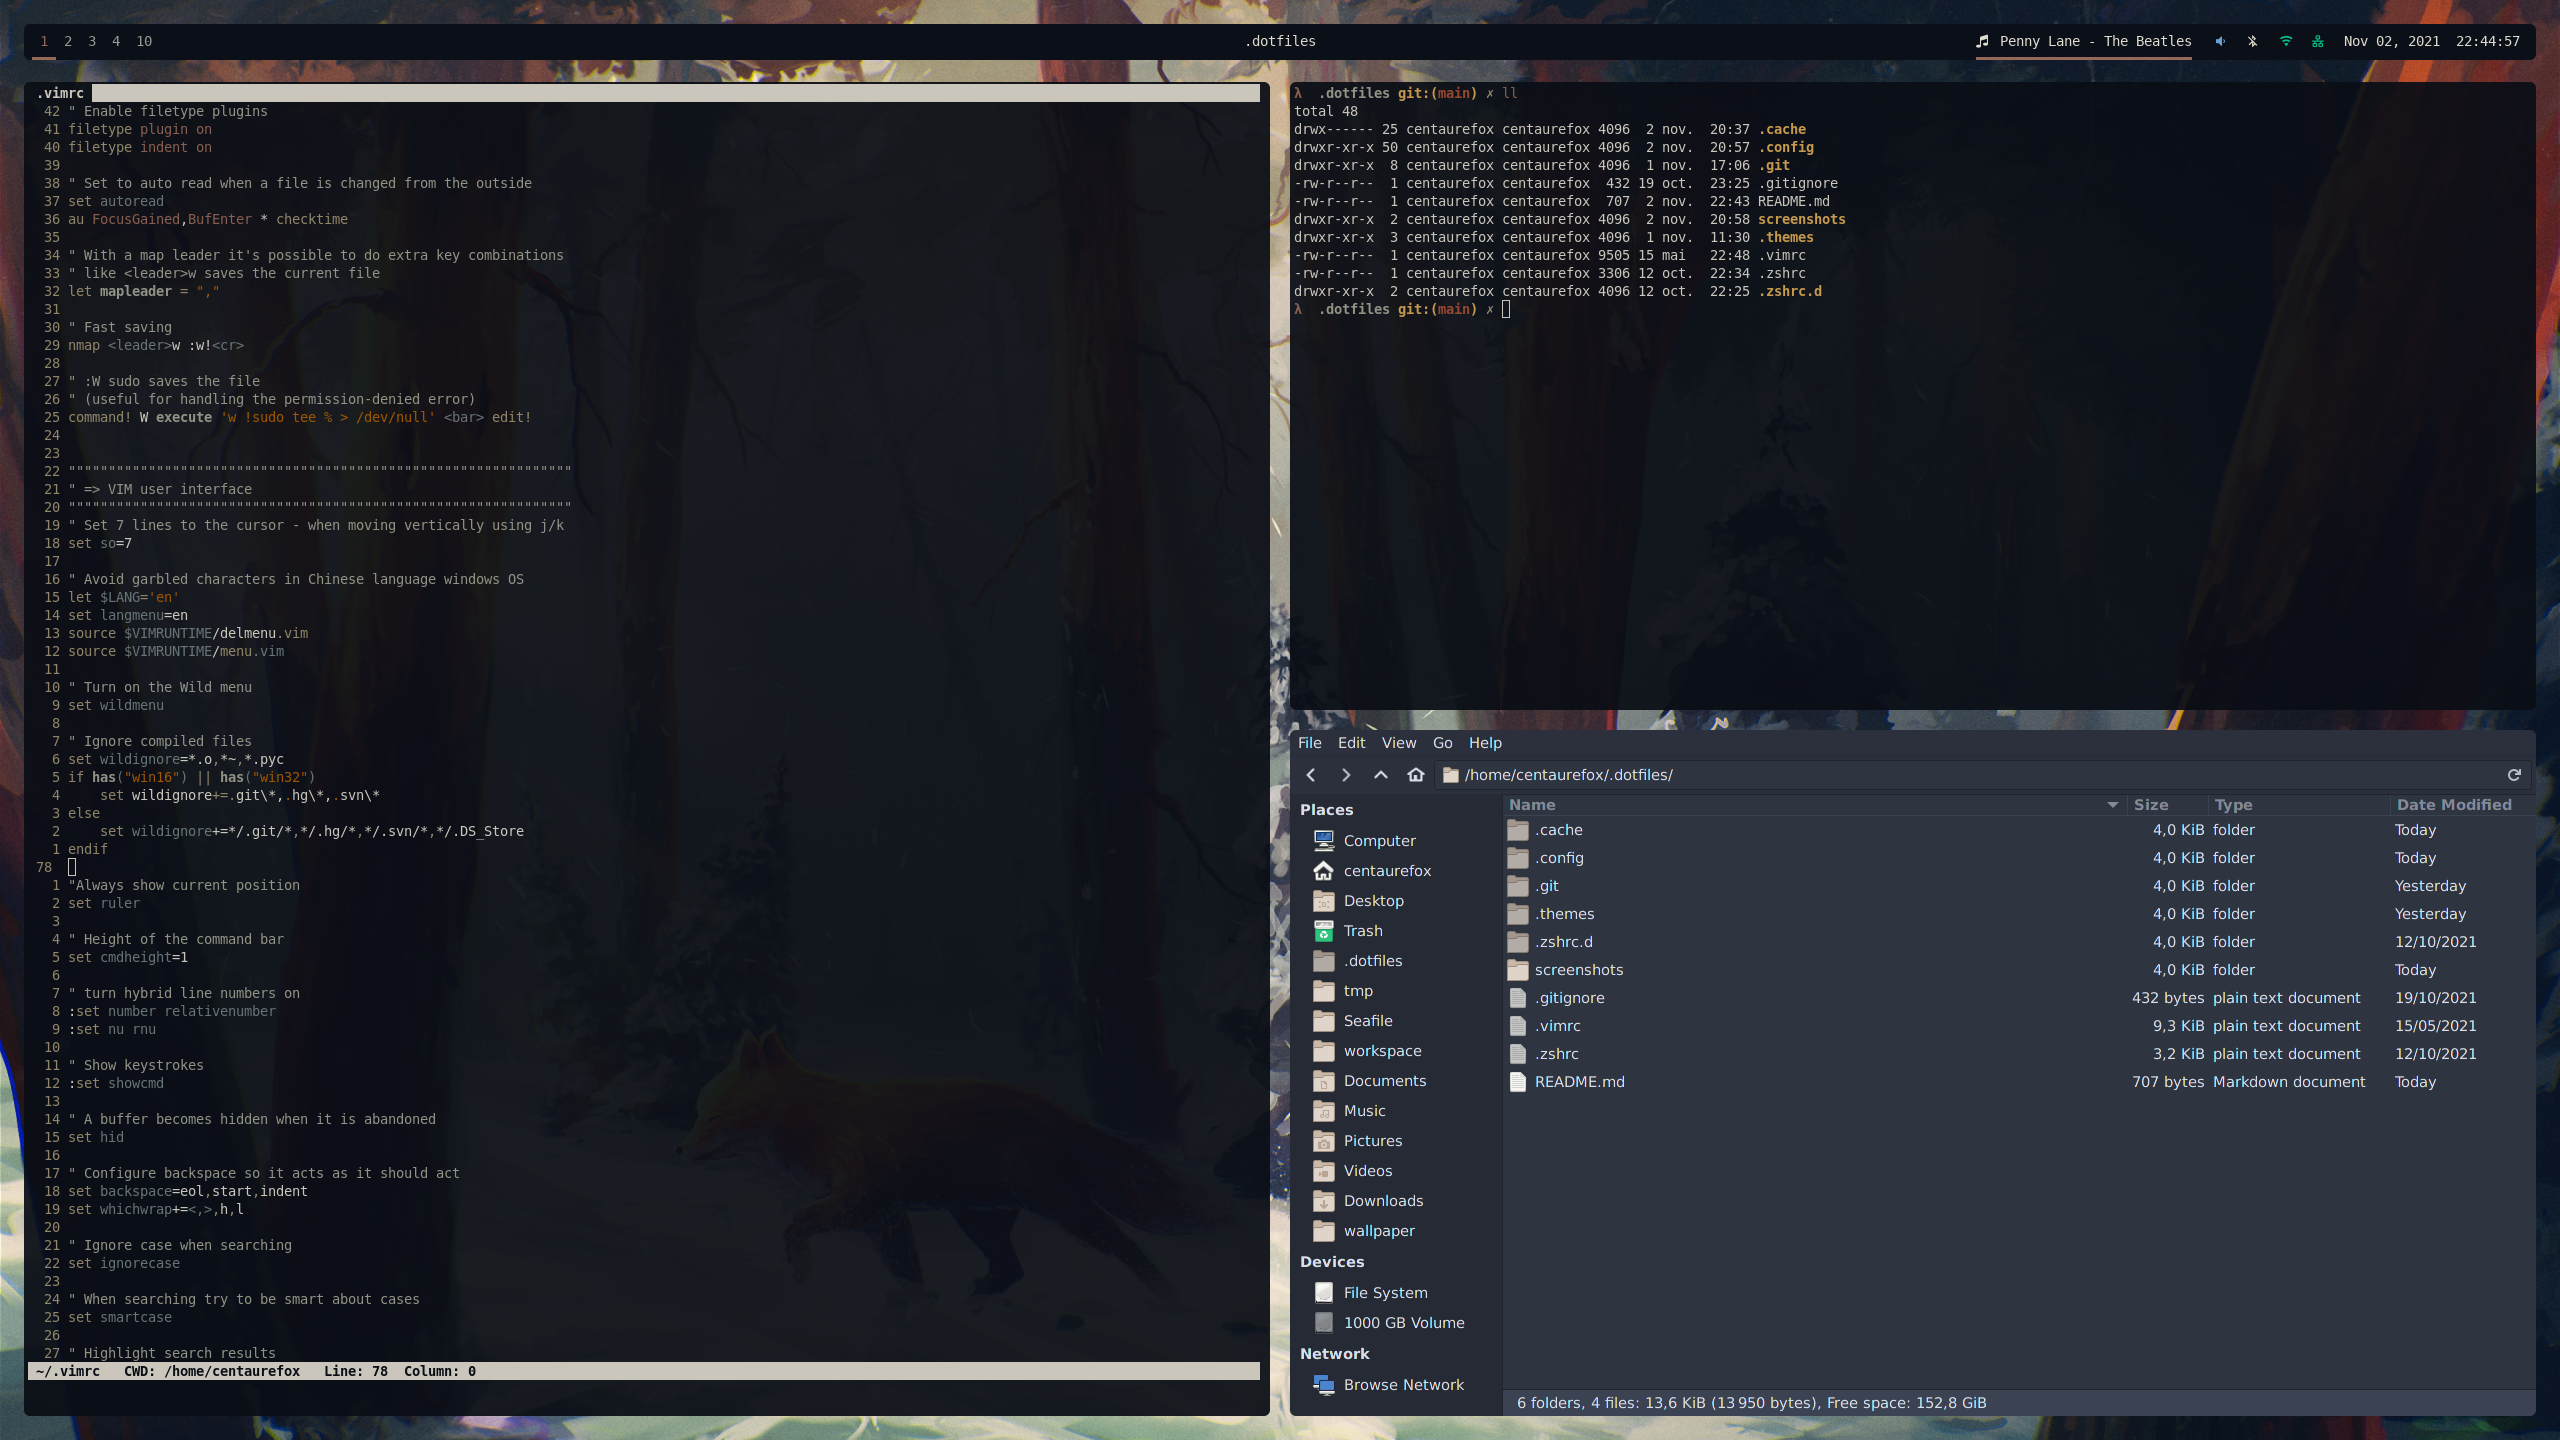
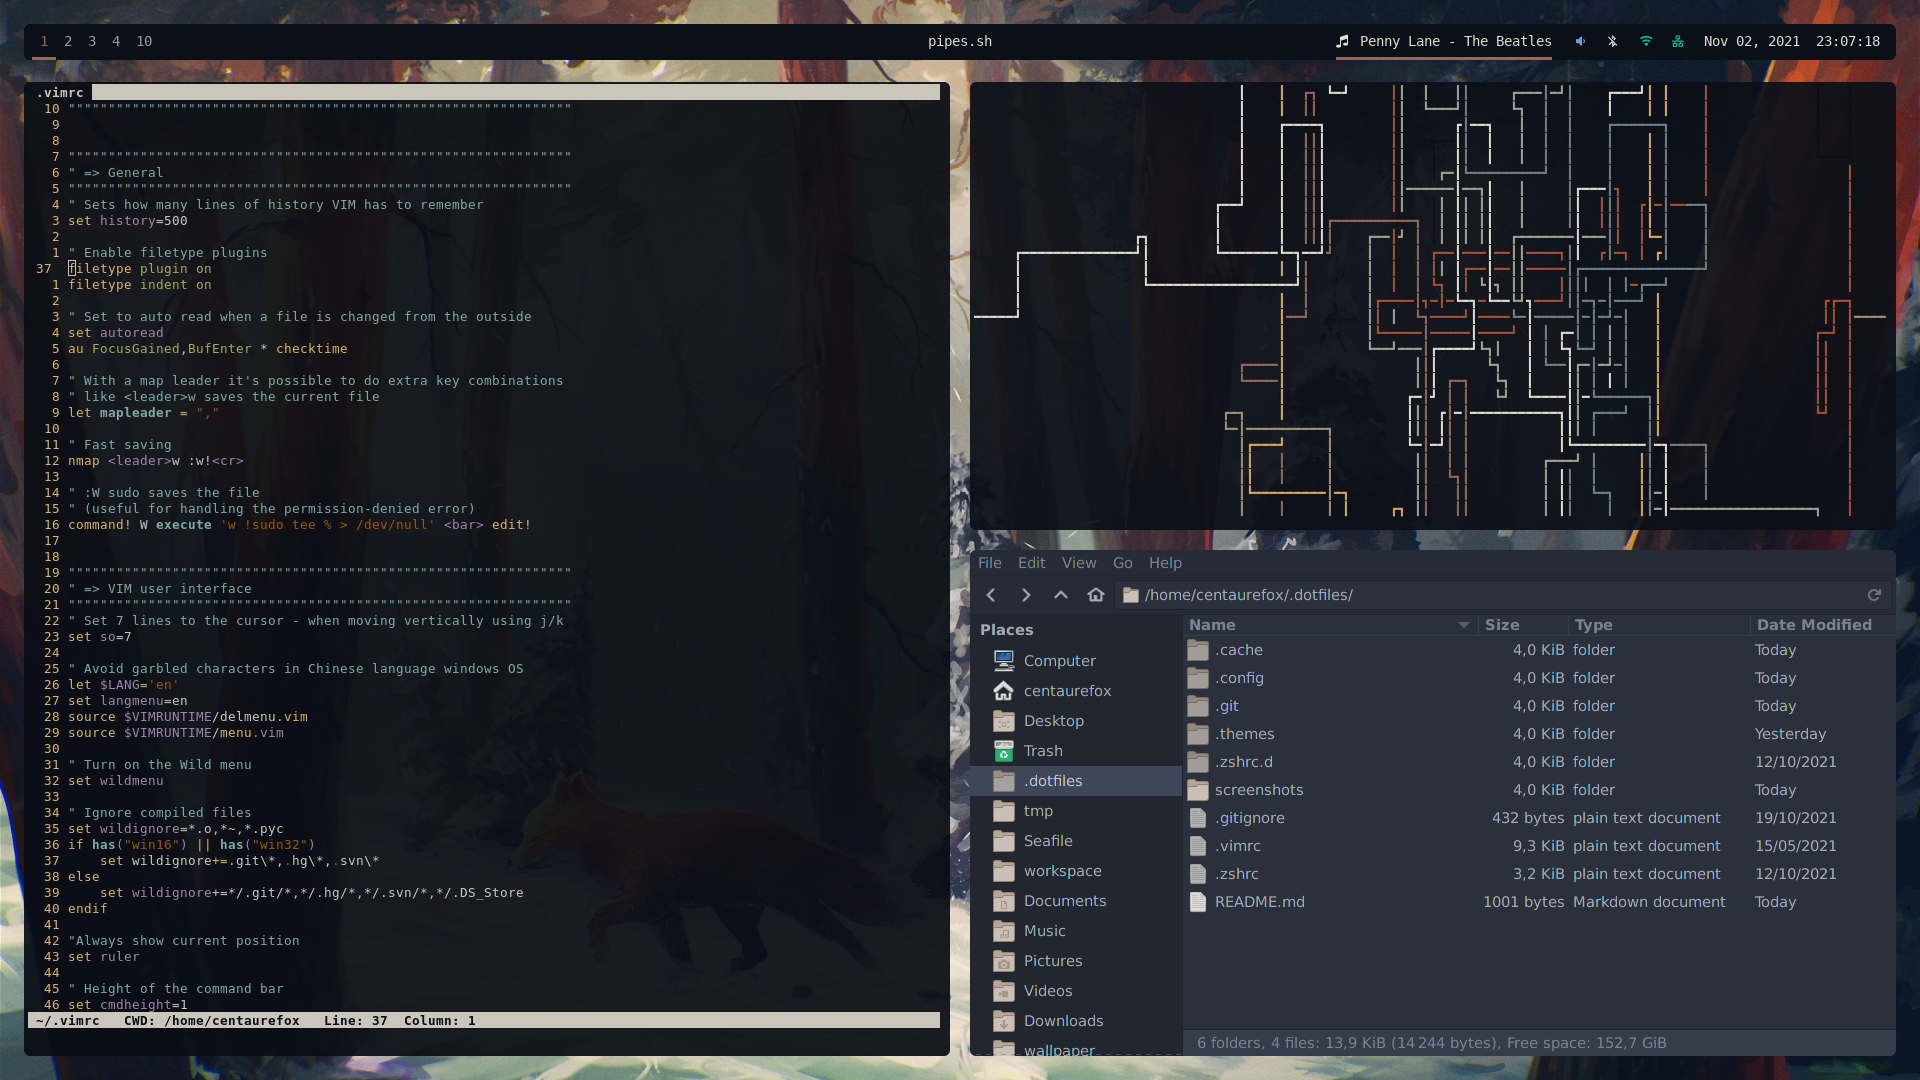
Add screenshots in lower resolution

diff --git a/README.md b/README.md
@@ -9,7 +9,7 @@ My dotfile repository containing everything needed for my i3 setup. I am current
 
 - WM: i3-gaps
 - Compositor: picom (ibhagwan's fork)
-- Terminal: Alacritty  *Applications shown below are : vim, alacritty, thunar*
+- Terminal: Alacritty  *Applications shown below are : vim, pipes.sh, thunar*
 ![launcher rofi](screenshots/terminal.png)
 - Notifications: Dunst
 - Launcher & Powermenu: Rofi
@@ -21,8 +21,9 @@ My dotfile repository containing everything needed for my i3 setup. I am current
 
 ## Usage & Installation
 
-For an easy way to install and use those dotfile, please check ansible-dotfiles.
+For an easy way to install and use those dotfile, please check [ansible-dotfiles](https://github.com/BaptisteBdn/ansible-dotfiles).
 
 ## Notes
-Wallpapers can be found in `.config/wallpaper`.
-I tweaked some generated pywal schemes in order to have better results, in order to keep those changes I added the `.cache/wal/schemes` folder.
+- Wallpapers can be found in `.config/wallpaper`.
+- I tweaked some generated pywal schemes in order to have better results, in order to keep those changes I added the `.cache/wal/schemes` folder.
+- This design is inspired by [k-vernooy](https://github.com/k-vernooy/dotfiles).
